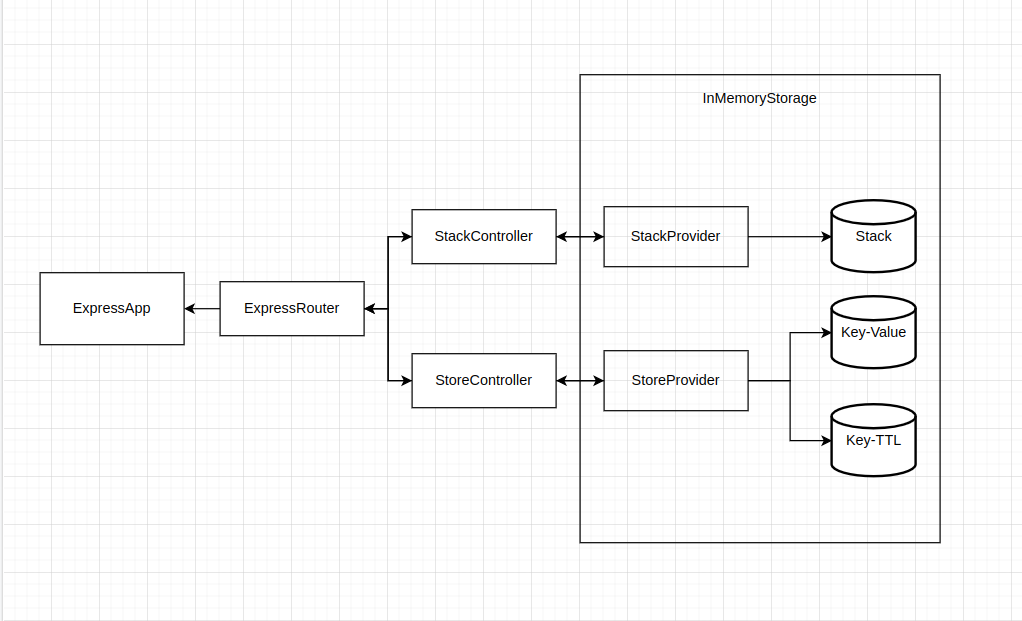
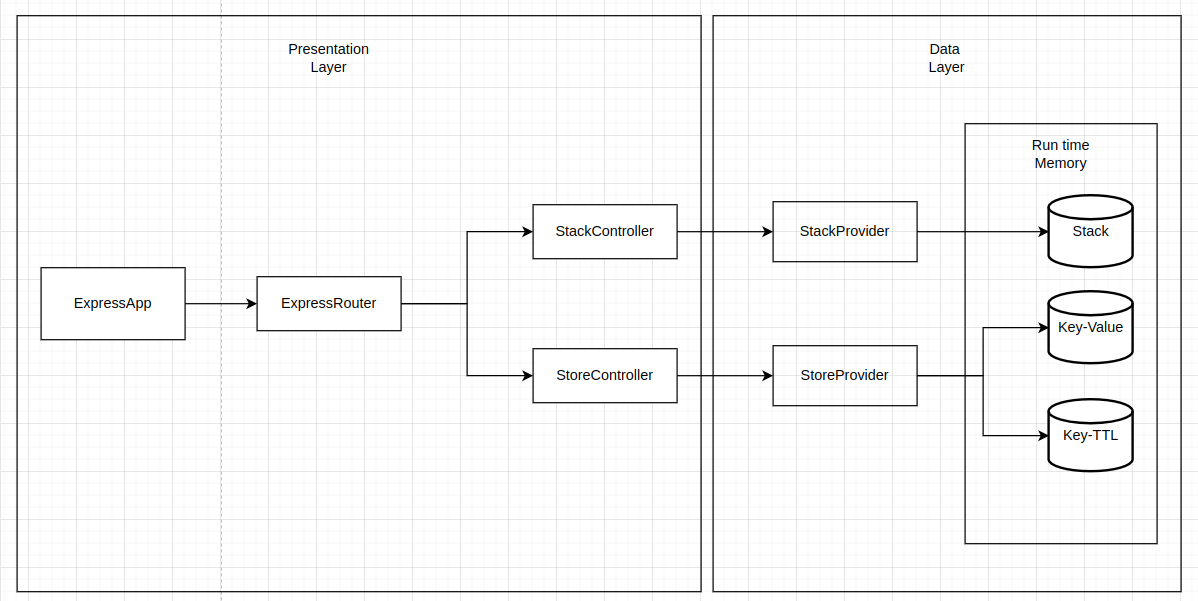
Updated folder structure to match class diagrama in design.png

Changed region(s): [[0.0, 0.0, 1.0, 0.9884], [0.6067, 0.0, 0.9706, 0.03], [0.2427, 0.0599, 0.3033, 0.1198]]

diff --git a/src/tests/store.test.js b/src/tests/store.test.js
@@ -1,6 +1,6 @@
 const request = require('supertest');
-const app = require('../app');
-const inMemoryStorage = require('../providers.js')
+const app = require('../main/app');
+const inMemoryStore = require('../data/providers/storeProvider')
 
 beforeEach(() => {
     jest.useFakeTimers()
@@ -9,7 +9,7 @@ beforeEach(() => {
 afterEach(() => {
     jest.runOnlyPendingTimers()
     jest.useRealTimers()
-    inMemoryStorage.clearStore()
+    inMemoryStore.clearStore()
 })
 
 /* Add use cases */
@@ -95,7 +95,7 @@ describe('When getting a key-value from the store by its key', () => {
             value: 'testValue'
         }
         beforeEach(() => {
-            inMemoryStorage.setToStore(data.key, data.value)
+            inMemoryStore.setToStore(data.key, data.value)
         })
 
         it('should return its value', async () => {
@@ -114,7 +114,7 @@ describe('When getting a key-value from the store by its key', () => {
             ttl: 10
         }
         beforeEach(() => {
-            inMemoryStorage.setToStore(data.key, data.value)
+            inMemoryStore.setToStore(data.key, data.value)
         })
 
         it('should return its value within its TTL', async () => {
@@ -143,7 +143,7 @@ describe('When adding a key-value pair to the store', () => {
             value: 'testValueOld'
         }
         beforeEach(() => {
-            inMemoryStorage.setToStore(oldData.key, oldData.value)
+            inMemoryStore.setToStore(oldData.key, oldData.value)
         })
 
         describe('and a TTL is not set for new value', () => {
@@ -188,7 +188,7 @@ describe('When adding a key-value pair to the store', () => {
             ttl: 10
         }
         beforeEach(() => {
-            inMemoryStorage.setToStore(oldData.key, oldData.value, oldData.ttl)
+            inMemoryStore.setToStore(oldData.key, oldData.value, oldData.ttl)
         })
 
         describe('and a TTL is not set for new value', () => {
@@ -237,7 +237,7 @@ describe('When deleting a key-value by its key', () => {
         value: 'testValue'
     }
     beforeEach(() => {
-        inMemoryStorage.setToStore(data.key, data.value)
+        inMemoryStore.setToStore(data.key, data.value)
     })
 
     it('should be deleted if it exists', async () => {

diff --git a/src/presentation/routes.js b/src/presentation/routes.js
@@ -1,11 +1,14 @@
 const express = require('express')
-const inMemoryStorage = require('./providers.js')
+const swaggerUi = require('swagger-ui-express');
 
+const swaggerDocument = require('./openapi.json');
+const inMemoryStack = require('../data/providers/stackProvider')
+const inMemoryStore = require('../data/providers/storeProvider')
 const StackController = require('./controllers/stackController.js')
 const StoreController = require('./controllers/storeController.js')
 
-const stackController = new StackController(inMemoryStorage)
-const storeController = new StoreController(inMemoryStorage)
+const stackController = new StackController(inMemoryStack)
+const storeController = new StoreController(inMemoryStore)
 
 const router = express.Router();
 
@@ -17,5 +20,8 @@ router.get('/stack', (req, res) => { stackController.getFromStack(req, res) });
 router.post('/store/add', (req, res) => { storeController.addToStore(req, res) });
 router.get('/store/:key', (req, res) => { storeController.getFromStore(req, res) });
 router.delete('/store/:key', (req, res) => { storeController.deleteFromStore(req, res) });
+
+// Swager API Documentation
+router.use('/api-docs', swaggerUi.serve, swaggerUi.setup(swaggerDocument));
 
 module.exports = router

diff --git a/src/tests/stack.test.js b/src/tests/stack.test.js
@@ -1,9 +1,9 @@
 const request = require('supertest');
-const app = require('../app');
-const inMemoryStorage = require('../providers.js')
+const app = require('../main/app');
+const inMemoryStack = require('../data/providers/stackProvider')
 
 afterEach(() => {
-    inMemoryStorage.clearStack()
+    inMemoryStack.clearStack()
 })
 
 /* Get from stack use cases */
@@ -11,8 +11,8 @@ describe('When trying to retrieve an item', () => {
 
     describe('from a non-empty stack', () => {
         beforeEach(() => {
-            inMemoryStorage.pushToStack('first item')
-            inMemoryStorage.pushToStack('last item')
+            inMemoryStack.pushToStack('first item')
+            inMemoryStack.pushToStack('last item')
         })
         it('should return the last item and remove it from the stack', async () => {
             response = await request(app).get('/stack')
@@ -51,7 +51,7 @@ describe('When adding an item', () => {
 
     describe('to a non-empty stack', () => {
         beforeEach(() => {
-            inMemoryStorage.pushToStack('existing item')
+            inMemoryStack.pushToStack('existing item')
         })
 
         it('should pile up the new item to the stack', async () => {

diff --git a/src/data/providers/storeProvider.js b/src/data/providers/storeProvider.js
@@ -1,6 +1,5 @@
-class InMemoryStorage {
+class InMemoryStore {
     constructor() {
-        this.stackPile = []
         this.valueStore = {}
         this.ttlStore = {}
     }
@@ -16,22 +15,6 @@ class InMemoryStorage {
     setTTL(key, ttl){
         this.ttlStore[key] = ttl
         setInterval(this.checkTTL, 1000, key, this.ttlStore, this.valueStore);
-    }
-
-    pushToStack(item) {
-        this.stackPile.push(item)
-    }
-
-    popFromStack() {
-        return this.stackPile.pop()
-    }
-
-    getStackSize() {
-        return this.stackPile.length
-    }
-
-    clearStack() {
-        this.stackPile = []
     }
 
     setToStore(key, value, ttl = null) {
@@ -54,6 +37,6 @@ class InMemoryStorage {
     }
 }
 
-const inMemoryStorage = new InMemoryStorage()
+const inMemoryStore = new InMemoryStore()
 
-module.exports = inMemoryStorage
+module.exports = inMemoryStore

diff --git a/src/data/providers/stackProvider.js b/src/data/providers/stackProvider.js
@@ -1,0 +1,25 @@
+class InMemoryStack {
+    constructor() {
+        this.stackPile = []
+    }
+
+    pushToStack(item) {
+        this.stackPile.push(item)
+    }
+
+    popFromStack() {
+        return this.stackPile.pop()
+    }
+
+    getStackSize() {
+        return this.stackPile.length
+    }
+
+    clearStack() {
+        this.stackPile = []
+    }
+}
+
+const inMemoryStack = new InMemoryStack()
+
+module.exports = inMemoryStack

diff --git a/src/main/app.js b/src/main/app.js
@@ -1,0 +1,9 @@
+const express = require('express')
+const router = require('../presentation/routes.js')
+
+const app = express();
+
+app.use(express.json())
+app.use('', router);
+
+module.exports = app

diff --git a/src/presentation/controllers/storeController.js b/src/presentation/controllers/storeController.js
@@ -3,7 +3,6 @@ class StoreController {
         this.storage = storage
     }
 
-
     isNumeric(num) {
         return !isNaN(num)
     }

diff --git a/README.md b/README.md
@@ -21,7 +21,7 @@ The API operates on two unrelated pieces of functionality, one is a in memory st
 
 The design choices was to go with a simple approach, with two separate controllers for the distinct pieces of memory storage functionality.
 
-The data it self is stored on a instance of the `InMemoryStorage` class during run time, working like a Singleton like object.
+The data itself is stored on the instances of `InMemoryStack` and `InMemoryStore` classes during run time, working like a Singleton like objects.
 
 For the key-value memory storage, an additional object was created to store the optional _Time To Live_ (TTL). Once something is stored with a valid TTL, a routine will run every one second, subtract a second from the TTL and check if its reached zero, then unset the value from the storage if needed.
 
@@ -31,7 +31,7 @@ For the key-value memory storage, an additional object was created to store the 
 ### Serving the Express APP
 To start the app, run the following command:
 
-> npm install
+> npm start
 
 this will expose the API to the address http://localhost:3000
 
@@ -148,4 +148,4 @@ The tests are using `Jest` as the test runner. To run the test, execute the foll
 ---
 ## Next Steps
 - Use of TypeScript
-- Create a interface for the in memory storage provider to be used by the controllers
+- Create interfaces for the memory storage providers to be used by the controllers
